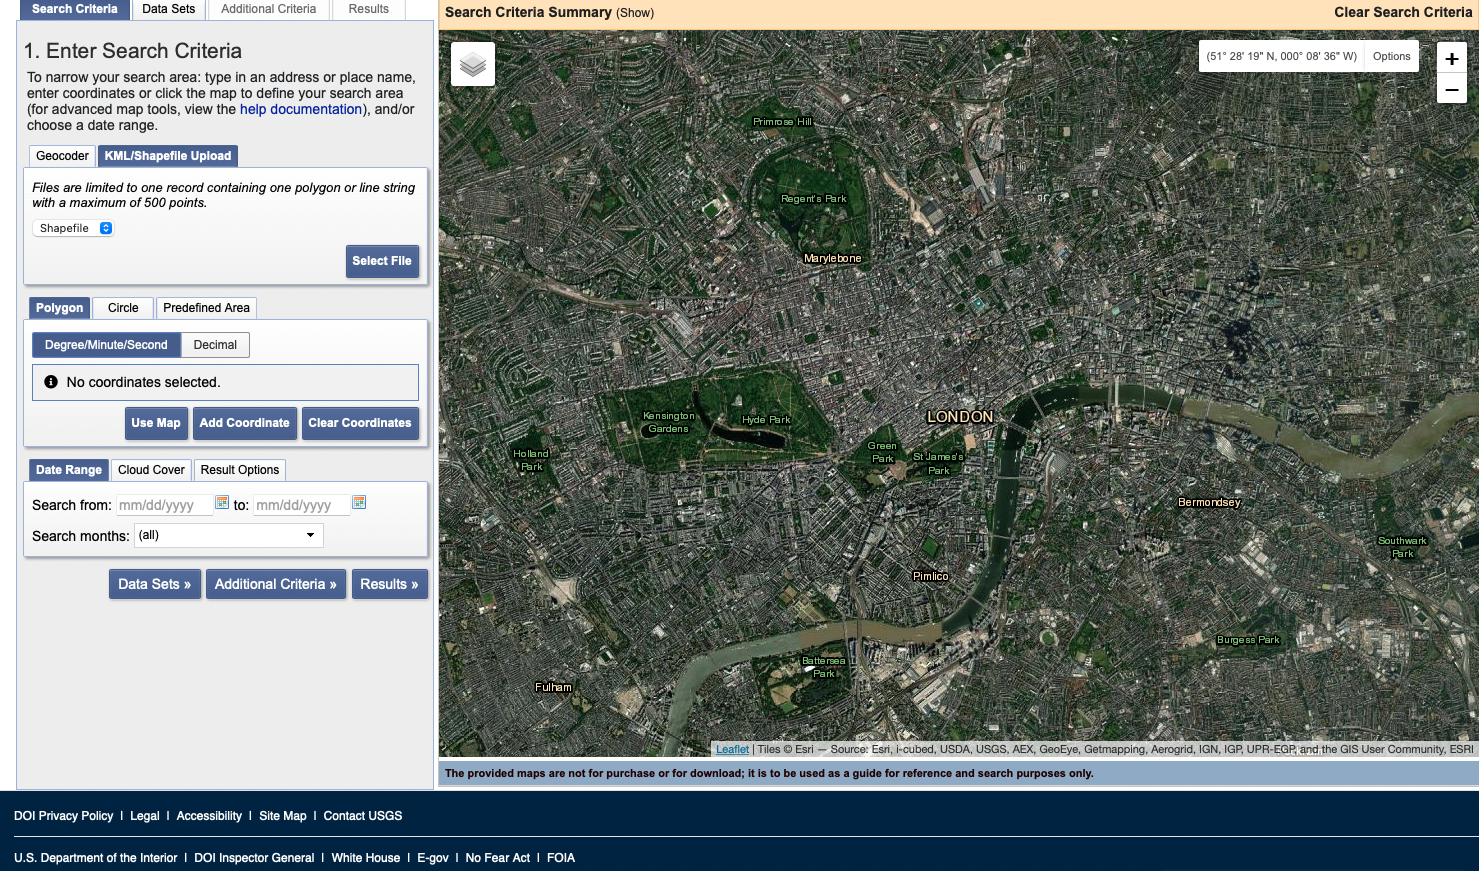
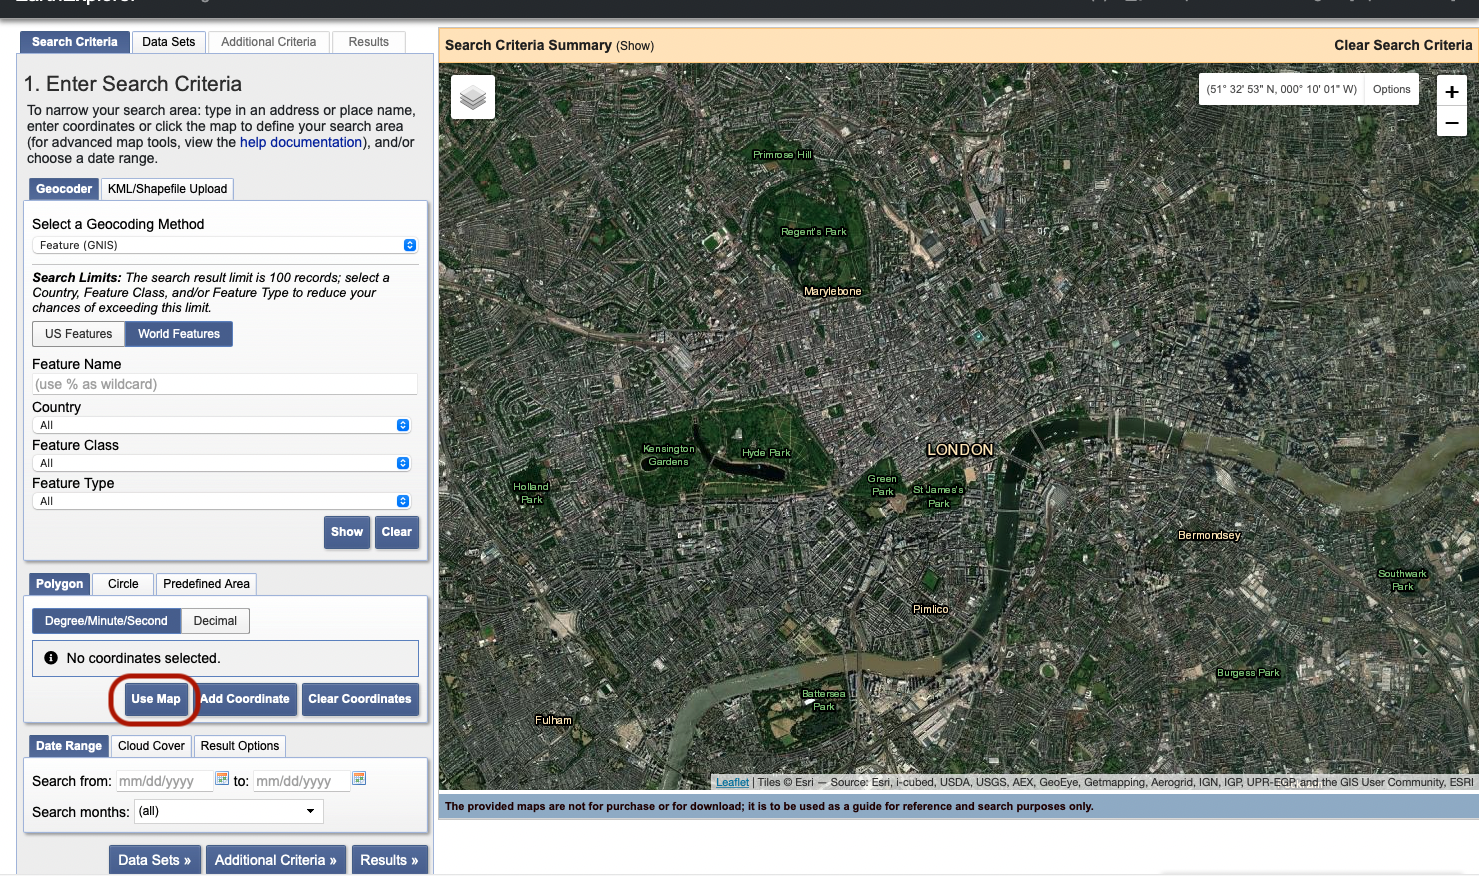
advanced session1

diff --git a/_posts/2022-01-23-advanced-tutorial1.md b/_posts/2022-01-23-advanced-tutorial1.md
@@ -51,27 +51,22 @@ We are interested in London. By default, the map is centered on Siouxville in th
 
 ![](../../../../docs/assets/images/adv-s1.png)
 
-![img](../docs/assets/images/adv-s1.png)
-
-hello!
-
-<img src="../../../../docs/assets/images/adv-s1.png" width="700">
 
 &nbsp; 
 
+Click on `Use map`; when you zoom out, you'll notice it has set four pins to determine a bounding box around your previous zoom level. This determines the zone in which you will be looking for data. Click `Results` 
 
+![](../../../../docs/assets/images/adv-s2.png)
 
+In the bottom set of parameters, select dates 01-01-2022 to 23-01-2022. You can actually retrieve Sentinel data all the way back to November 2015 when it was first launched.
 
+In the next tab `Cloud Cover`, set the slider to only keep images with a 0-30% cloud cover range, and exclude images with range unknown.
 
+![](../../../../docs/assets/images/adv-s3.png)
 
+Next, press `Data Sets`. On the new panel, select Sentinel > Sentinel-2 data then press `Results`.
 
-
-
-
-
-
-
-
+![](../../../../docs/assets/images/adv-s4.png)
 
 
 
